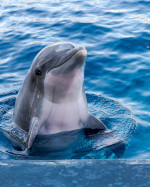
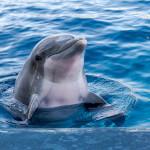
Fixes Dolphin card bug

diff --git a/views/index.html b/views/index.html
@@ -17,19 +17,20 @@
                 <li class="nav--item"><a href="mammals.html" class="nav--link">Marine Mammals</a></li>
             </ul>
         </nav>
+        
         <div class="carousel slide center" data-ride="carousel">
             <div class="carousel-inner">
               <div class="carousel-item active">
-                <img class="d-block w-90 center" src="../pictures/blue-whale-650h.jpg" alt="blue whale resurfacing">
+                <img class="d-block w-100" src="../pictures/blue-whale-650h.jpg" alt="blue whale resurfacing">
                 <span>Photo by <a href="https://unsplash.com/@toddcravens?utm_source=unsplash&amp;utm_medium=referral&amp;utm_content=creditCopyText">Todd Cravens</a> on <a href="https://unsplash.com/s/photos/whale?utm_source=unsplash&amp;utm_medium=referral&amp;utm_content=creditCopyText">Unsplash</a></span>
               </div>
               <div class="carousel-item">
-                <img class="d-block w-90 center" src="../pictures/stringray-650h.jpg" alt="string ray swimming near the ocean floor">
+                <img class="d-block w-100" src="../pictures/stringray-650h.jpg" alt="string ray swimming near the ocean floor">
                 <span>Photo by <a href="https://unsplash.com/@davidclode?utm_source=unsplash&amp;utm_medium=referral&amp;utm_content=creditCopyText">David Clode</a> on <a href="https://unsplash.com/s/photos/crab?utm_source=unsplash&amp;utm_medium=referral&amp;utm_content=creditCopyText">Unsplash</a></span>
 
               </div>
               <div class="carousel-item">
-                <img class="d-block w-90 center" src="../pictures/crab-650h.jpg" alt="big crab staring at the camera">
+                <img class="d-block w-100" src="../pictures/crab-650h.jpg" alt="big crab staring at the camera">
                 <span>Photo by <a href="https://unsplash.com/@davidclode?utm_source=unsplash&amp;utm_medium=referral&amp;utm_content=creditCopyText">David Clode</a> on <a href="https://unsplash.com/s/photos/crab?utm_source=unsplash&amp;utm_medium=referral&amp;utm_content=creditCopyText">Unsplash</a></span>
               </div>
             </div>

diff --git a/styles/index.css b/styles/index.css
@@ -155,6 +155,10 @@ img.center {
   color: #3b3b3b;
 }
 
+.carousel {
+  max-width: 1500px;
+}
+
 .second {
   display: -webkit-box;
   display: -ms-flexbox;

diff --git a/styles/index.scss b/styles/index.scss
@@ -138,6 +138,9 @@ img.center {
         }
     }
 }
+.carousel {
+    max-width: 1500px;
+}
 
 .second{
     display: flex;
